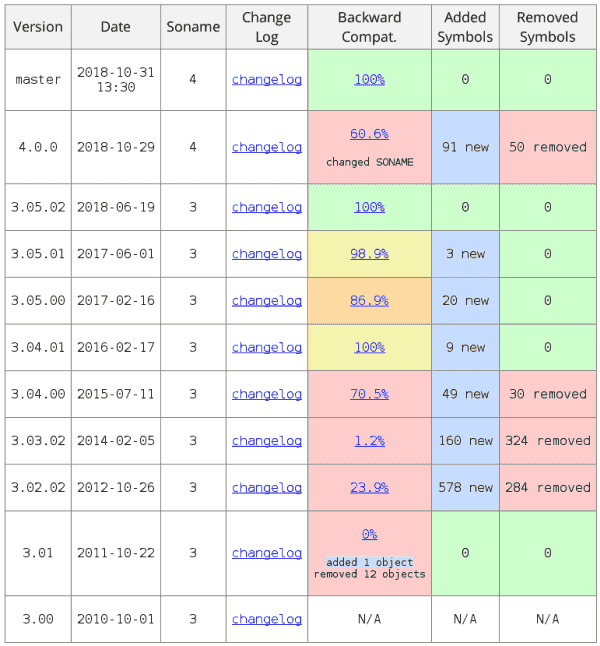
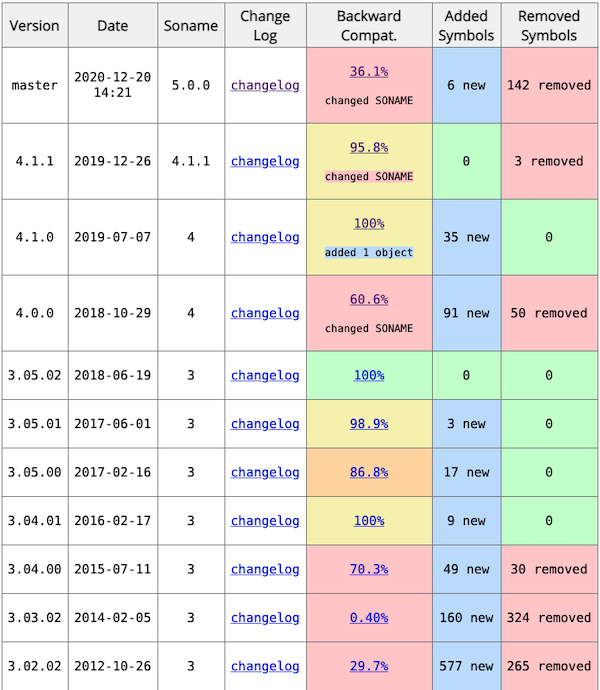
Update API ABI report graphic and links

diff --git a/ReleaseNotes.md b/ReleaseNotes.md
@@ -36,8 +36,11 @@ Table of Contents
 
 ![api_abi_changes.png](images/api_abi_changes.png)
 
-* [Binary compatibility report for Tesseract: 4.0.0 vs 4.1.0](https://abi-laboratory.pro/index.php?view=compat_report&l=tesseract&v1=4.0.0&v2=current&obj=ff668&kind=abi) (maybe not updated for the latest code)
-* [Binary compatibility report for Tesseract: 3.05.02 vs 4.0.0](https://abi-laboratory.pro/index.php?view=compat_report&l=tesseract&v1=3.05.02&v2=4.0.0&obj=a88e1&kind=abi)
+
+* [Binary compatibility report for Tesseract: 4.1.1 vs master (will be 5.0)](https://abi-laboratory.pro/index.php?view=objects_report&l=tesseract&v1=4.1.1&v2=current)
+* [Binary compatibility report for Tesseract: 4.1.0 vs 4.1.1](https://abi-laboratory.pro/index.php?view=objects_report&l=tesseract&v1=4.1.0&v2=4.1.1)
+* [Binary compatibility report for Tesseract: 4.0.0 vs 4.1.0](https://abi-laboratory.pro/index.php?view=objects_report&l=tesseract&v1=4.0.0&v2=4.1.0)
+* [Binary compatibility report for Tesseract: 3.05.02 vs 4.0.0](https://abi-laboratory.pro/index.php?view=objects_report&l=tesseract&v1=3.05.02&v2=4.0.0)
 
 ## Changes made since last release
   * The master branch is using 5.0.0 versioning because of code modernization cause API compatibility issues with 4.x release 
